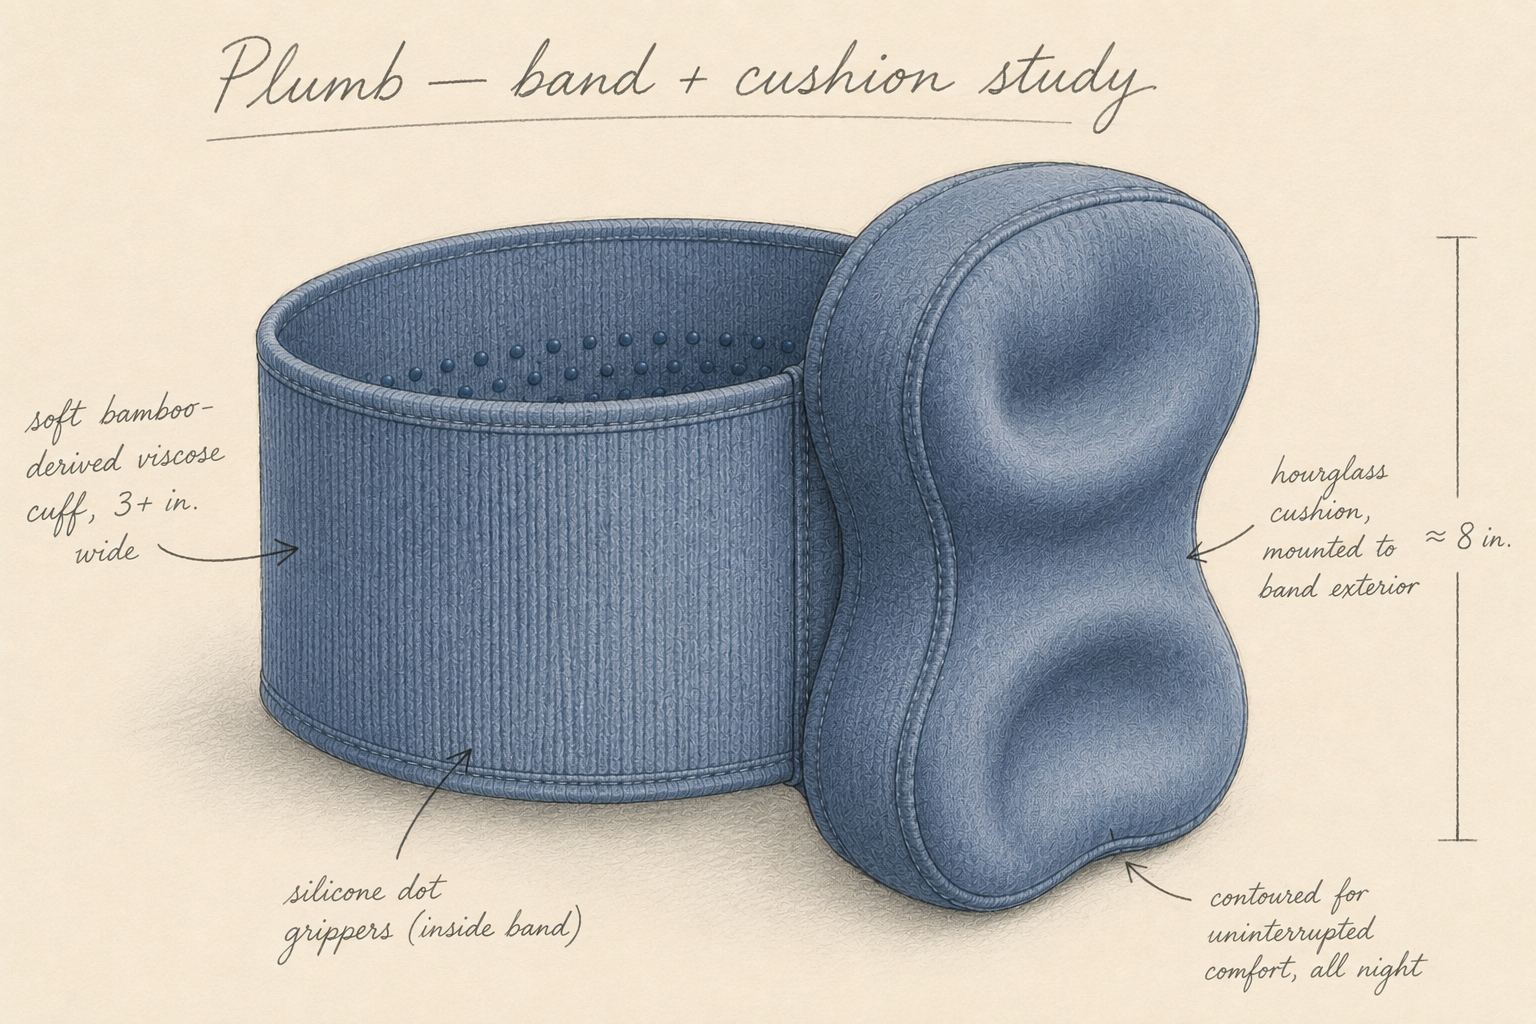
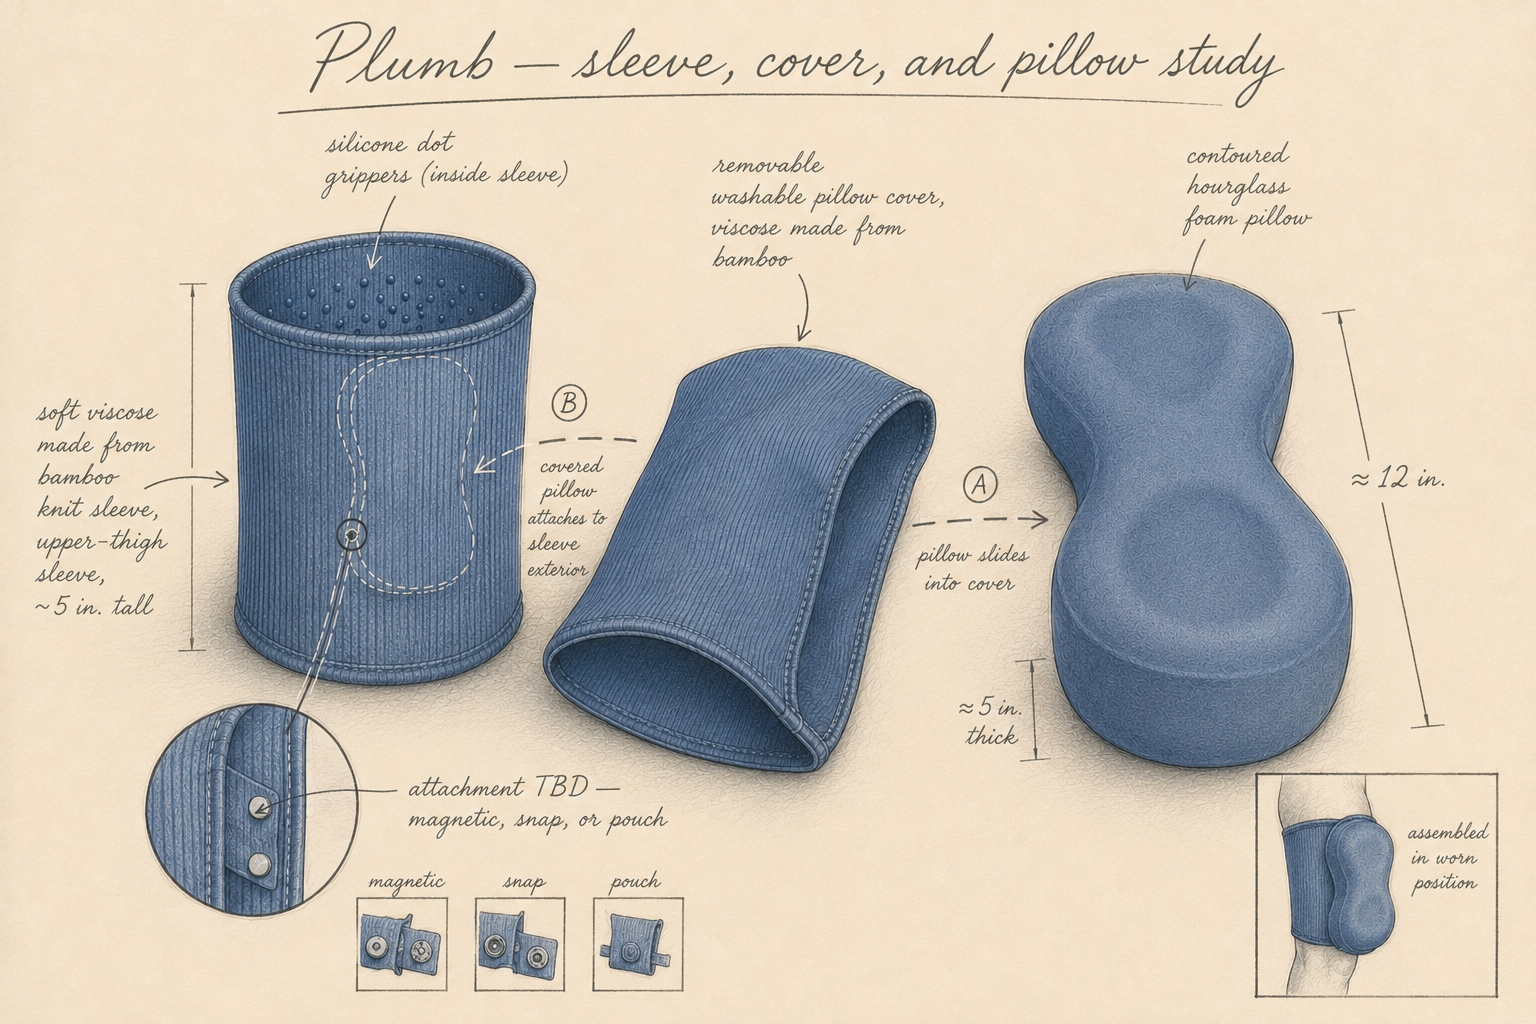
hero: swap to ChatGPT modular three-component study (Mike-directed)
Mike's 2026-06-09T16:13 EDT direction: 'yes keep moving forward'
with the ChatGPT 4:10 PM modular three-component illustration.

Image source: ChatGPT regenerated render incorporating:
- All three components (sleeve, cover, pillow) clearly drawn and
  labeled (1)(2)(3)
- Assembly arrows (A) pillow→cover, (B) covered-pillow→sleeve
- Magnified loupe-view inset showing attachment hardware
- 'attachment TBD - magnetic, snap, or pouch' annotation
- Three attachment-concept thumbnails (magnetic / snap / pouch)
- 'Assembled in worn position' inset thumbnail (lower-right)
- Language ratified: 'sleeve' not 'band'; 'viscose made from bamboo'
  not 'bamboo-derived viscose'; no 'mounted to'; no all-night-comfort
- Dimensions: ~12 in. pillow length, ~5 in. thick

Same dimensions as prior hero (1536x1024) - no HTML structure
changes beyond alt text update.

Image: public/assets/hero_image.jpg (803 KB)
       public/assets/hero_image.webp (189 KB, Pillow q=82)

Alt text updated to describe the three-component modular product.

DOM verification:
- og:image still points at og_card.png (unchanged)
- no 'machine-washable as one piece' anywhere in HTML
- <figure class='hero-illustration'> block intact

Backup tag: backup/pre-modular-hero-20260609 (pushed)

Supersedes the v1.x band+cushion hero (PR #9, merged at 15:15 EDT).
v1.x is now architecturally stale - it depicts a two-component
product with 'band' / 'mounted to' / 'bamboo-derived viscose'
[…]

diff --git a/public/index.html b/public/index.html
@@ -37,7 +37,7 @@
       <figure class="hero-illustration">
         <picture>
           <source srcset="assets/hero_image.webp" type="image/webp">
-          <img src="assets/hero_image.jpg" alt="Plumb product study: a soft knit sleeve and a contoured hourglass cushion, drawn together as the band-and-cushion concept." width="1536" height="1024" loading="eager">
+          <img src="assets/hero_image.jpg" alt="Plumb sleeve, cover, and pillow study: a soft knit thigh sleeve, a removable washable pillow cover, and a contoured hourglass foam pillow, drawn together as a three-component sleep-alignment system with assembly arrows and attachment-mechanism concepts." width="1536" height="1024" loading="eager">
         </picture>
       </figure>
       <div class="content">
